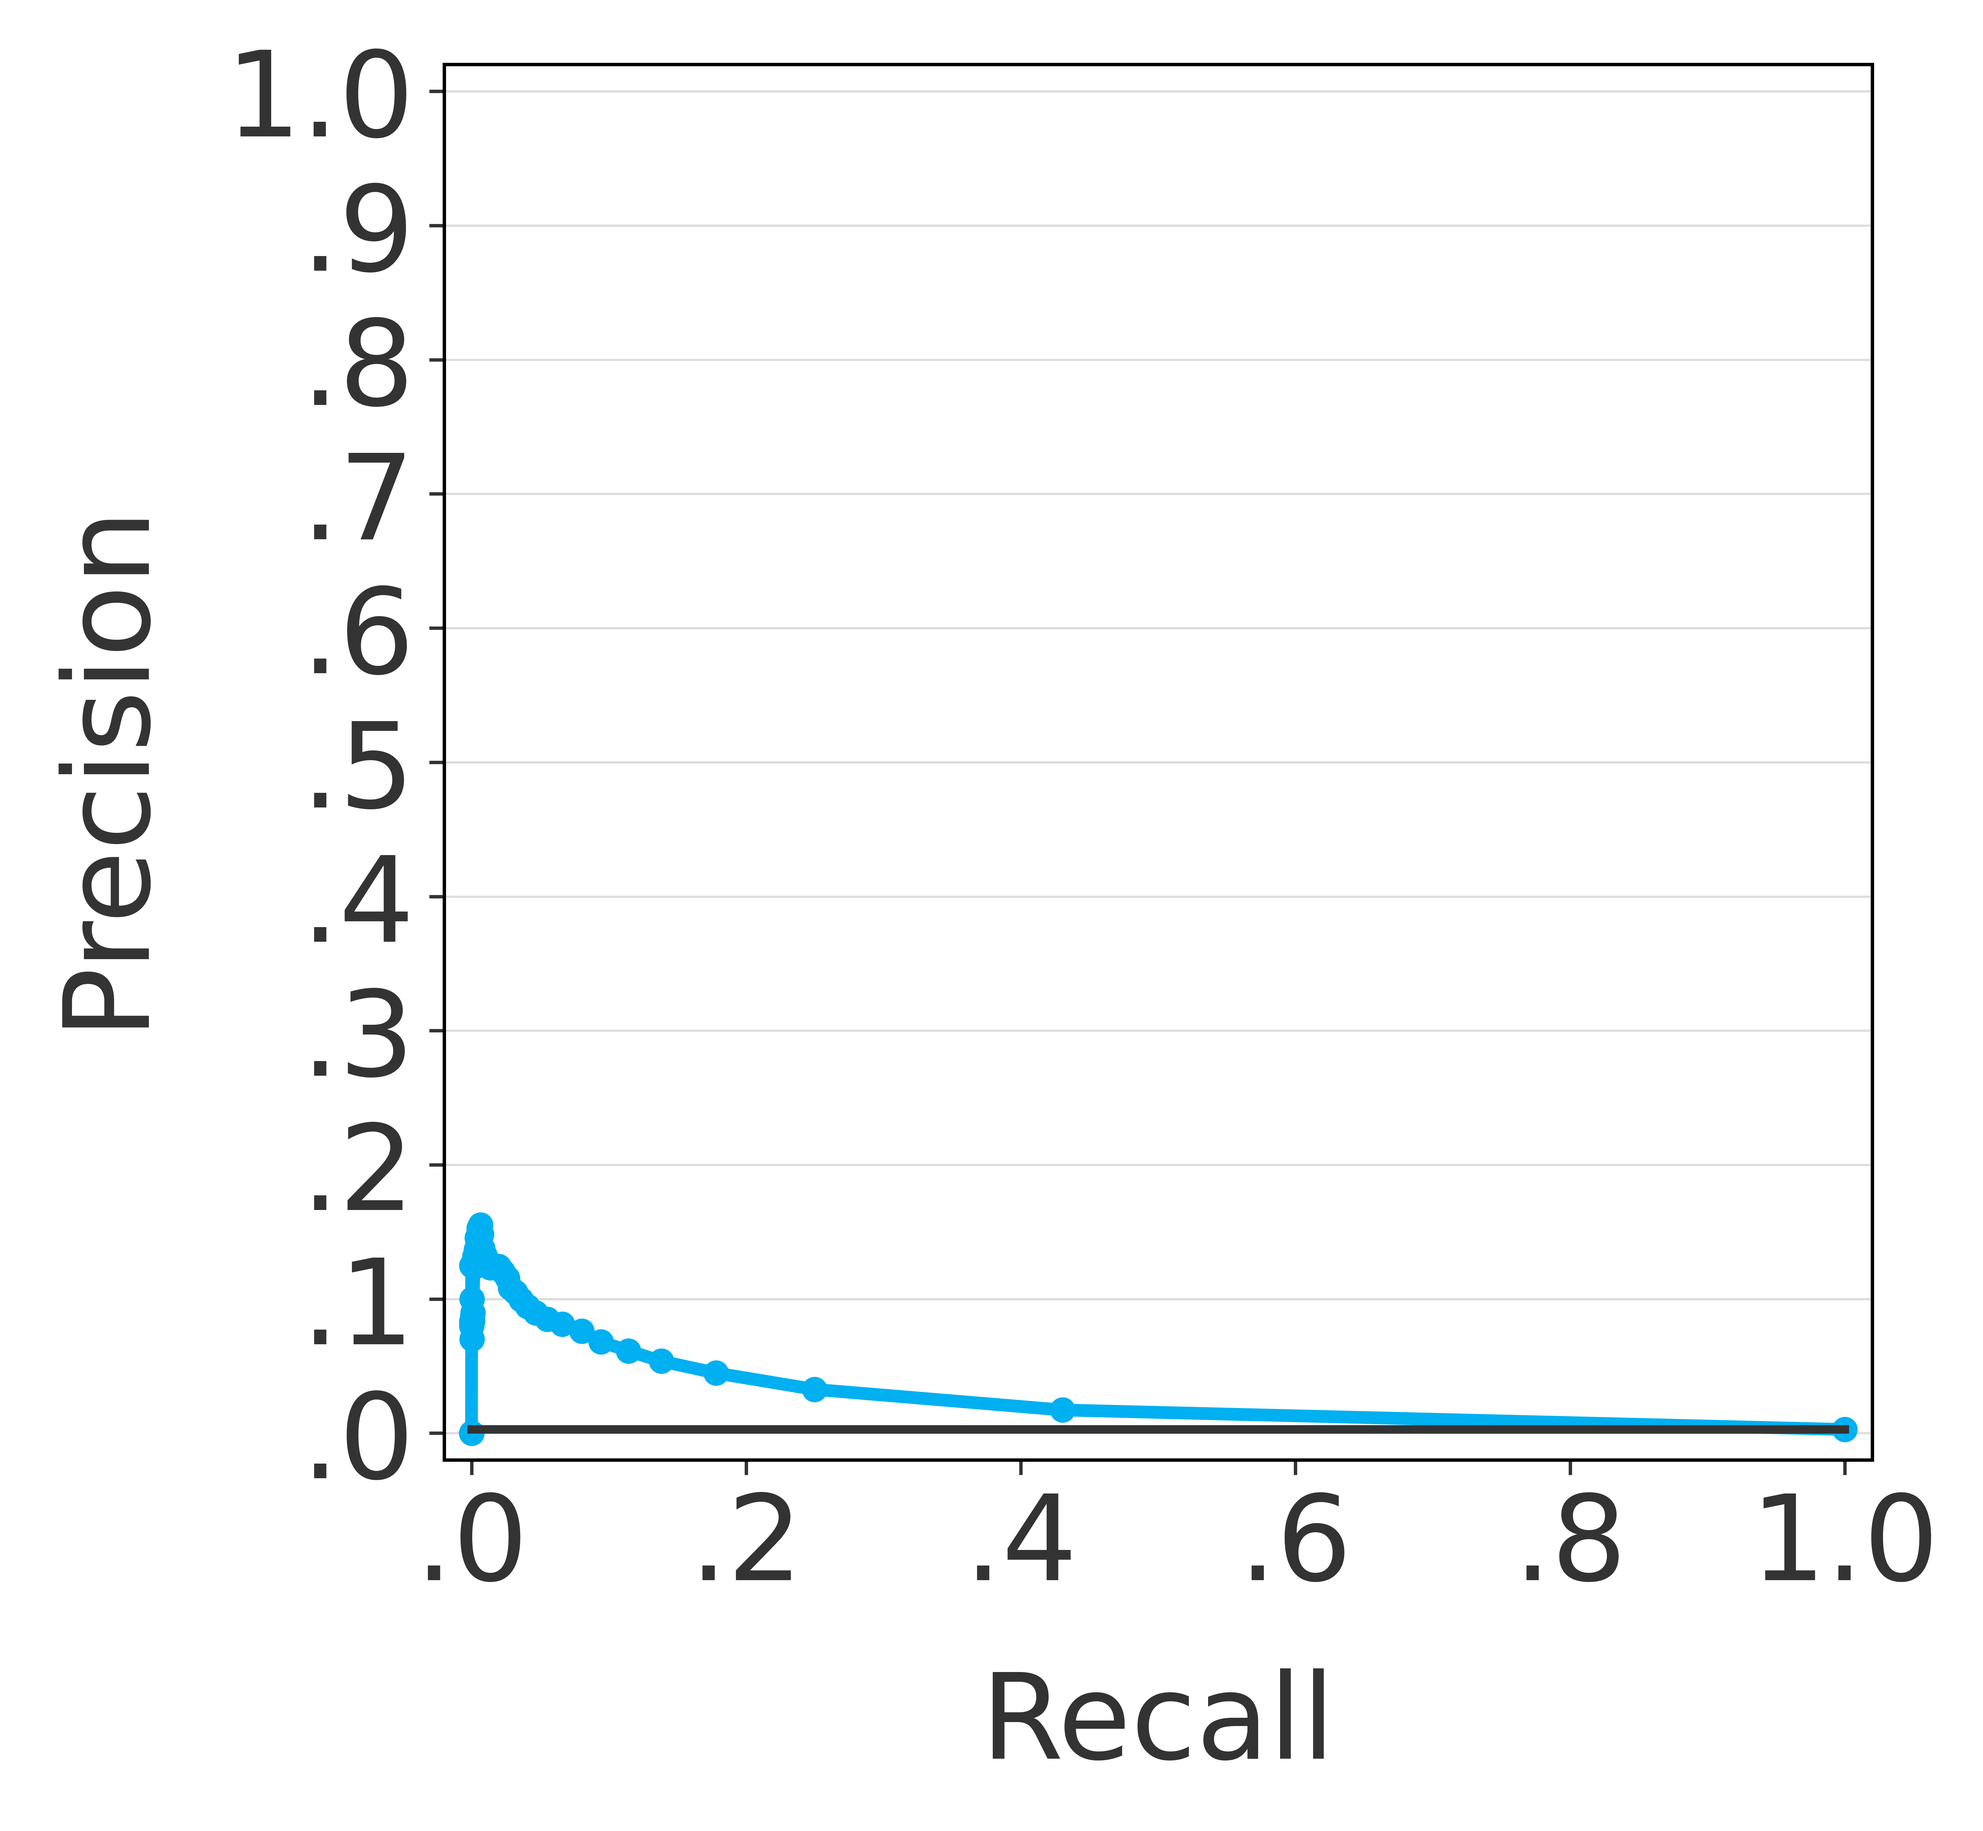
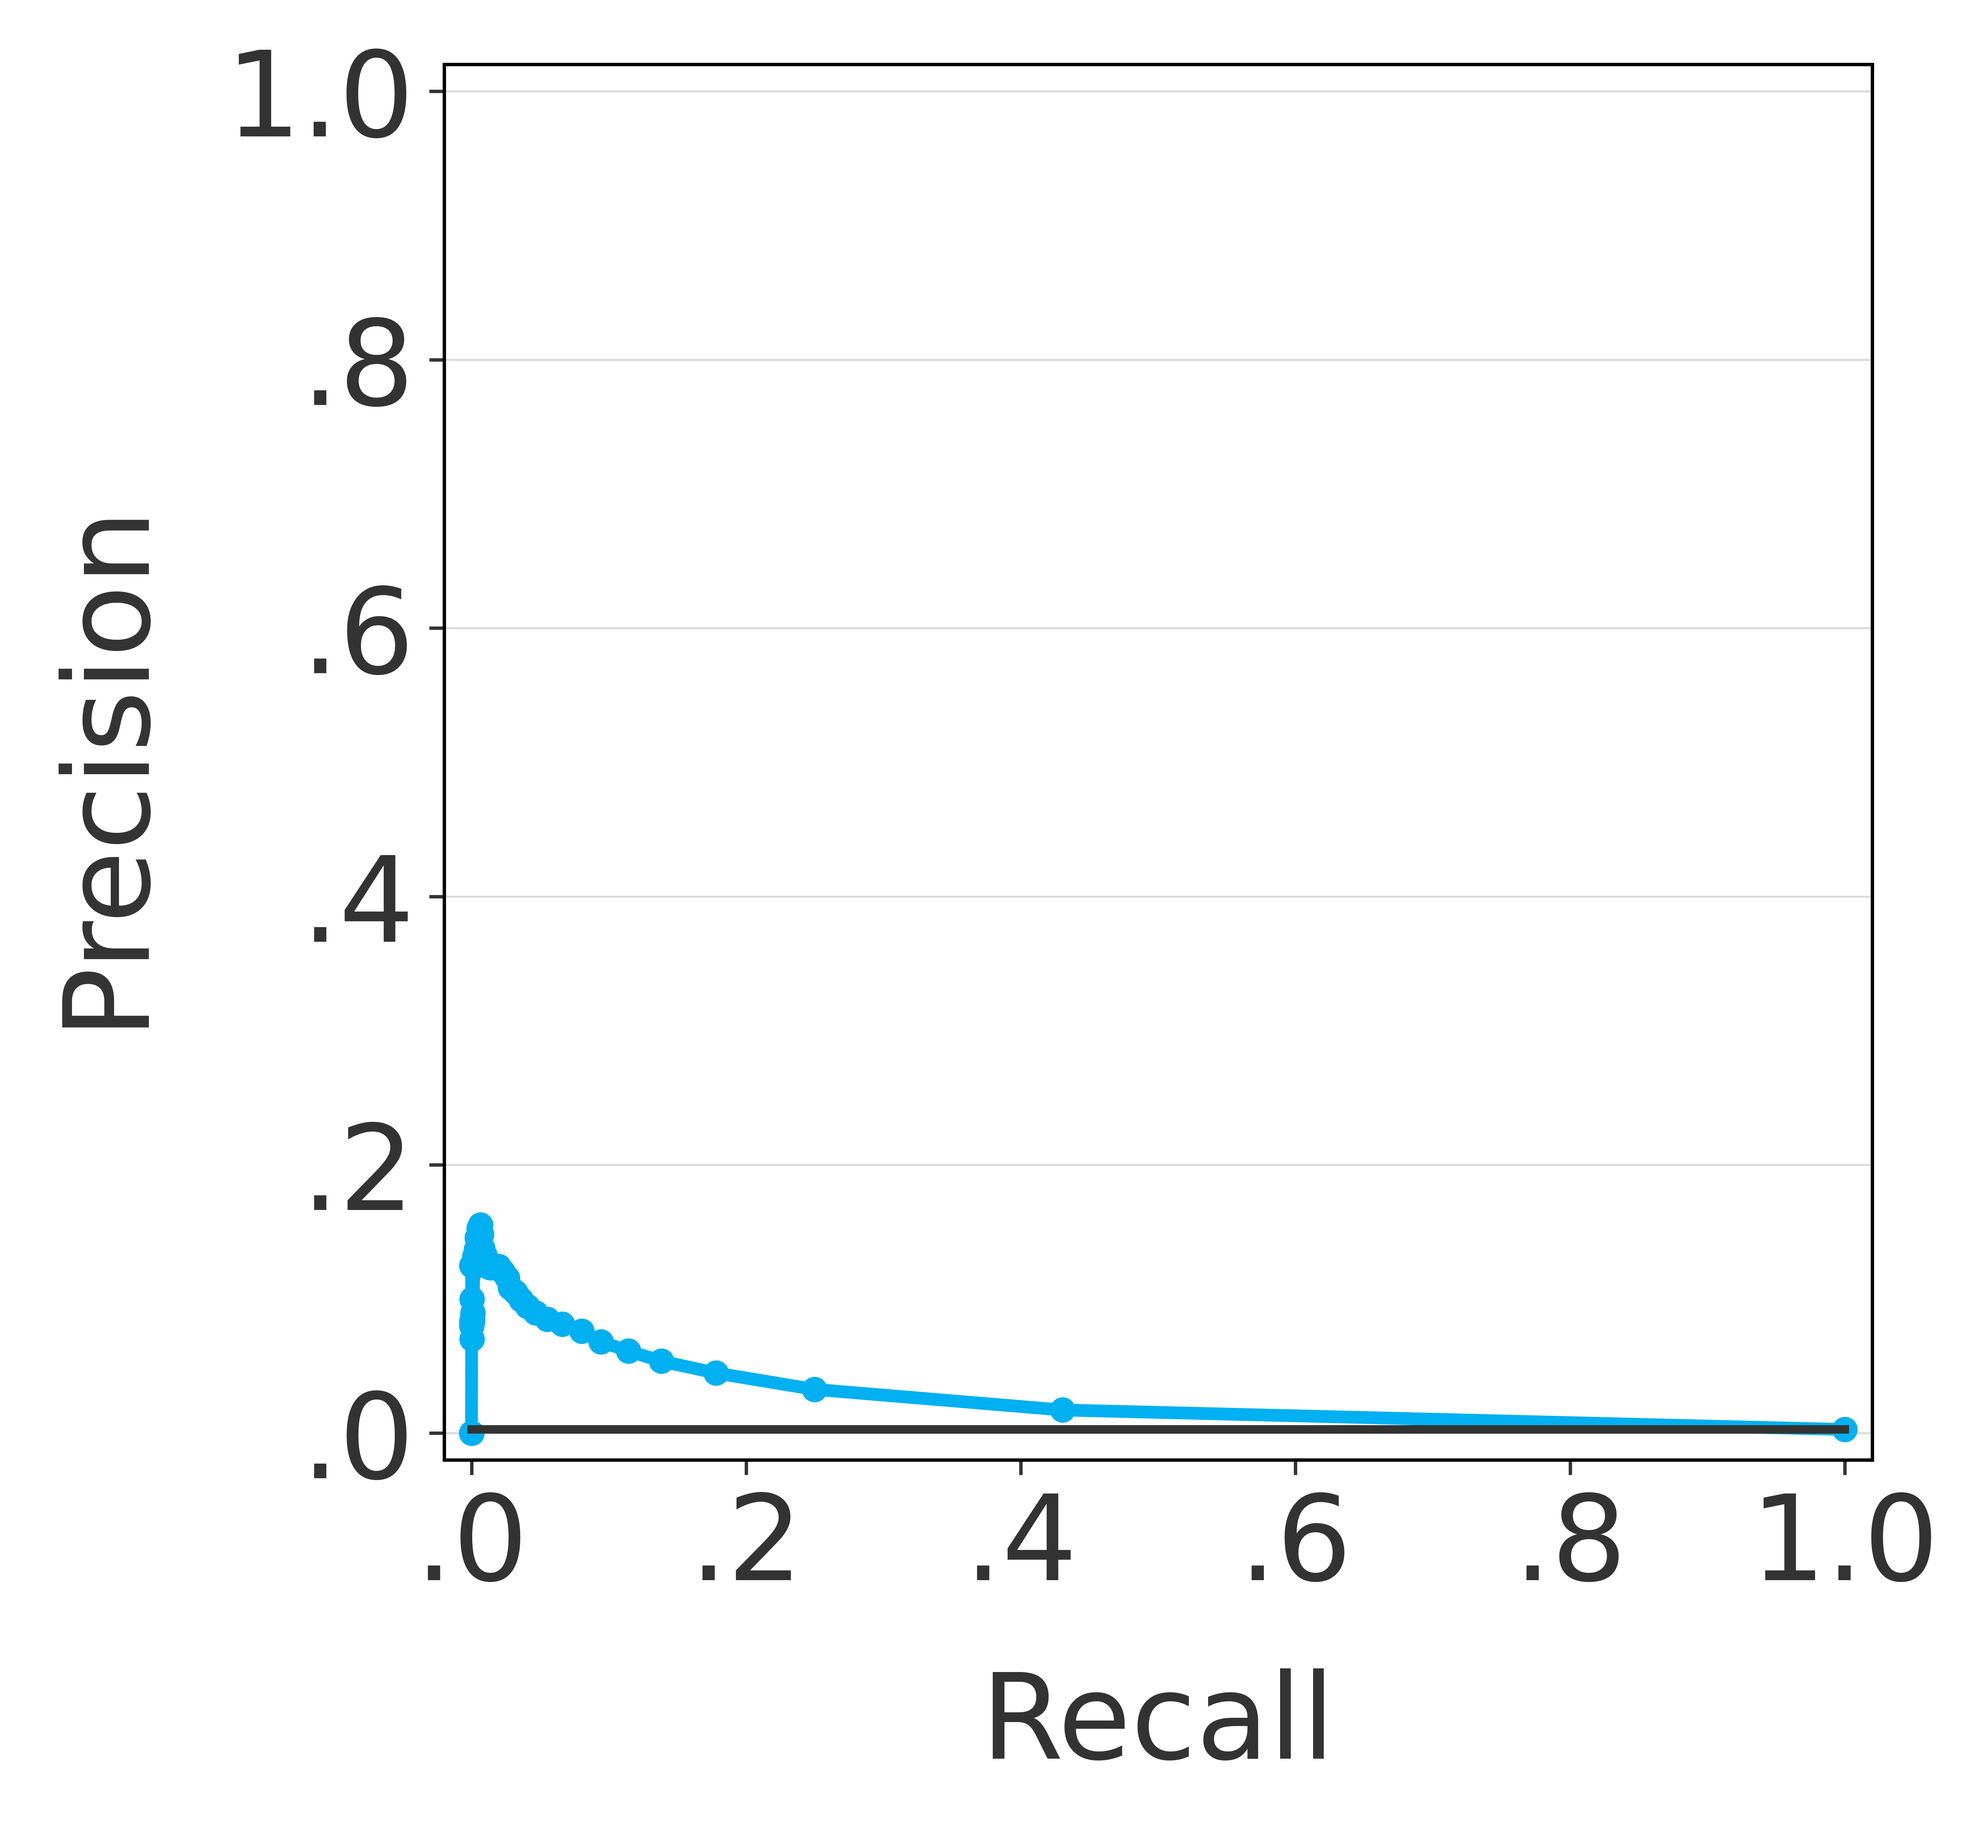
Added the plots for the training data.

diff --git a/code/plot/30_paper_verif_plots_long_fc.py b/code/plot/30_paper_verif_plots_long_fc.py
@@ -180,7 +180,7 @@ for model_name in model_name_list:
                         ax.xaxis.set_major_formatter(fmt)
                         ax.yaxis.set_major_formatter(fmt)
                         plt.xticks(np.arange(0, 1.01, 0.2))
-                        plt.yticks(np.arange(0, 1.01, 0.1))
+                        plt.yticks(np.arange(0, 1.01, 0.2))
                         plt.grid(axis='y', linewidth=0.5, color='gainsboro')
                         plt.xlim([-0.02,1.02])
                         plt.ylim([-0.02,1.02])
@@ -275,7 +275,7 @@ for model_name in model_name_list:
                   ax = plt.gca()
                   ax.yaxis.set_major_formatter(fmt)
                   plt.grid(axis='y', linewidth=0.5, color='gainsboro')
-                  plt.ylim([-0.01,0.07])
+                  plt.ylim([-0.01,0.06])
                   plt.tight_layout()
                   plt.savefig(f'{dir_out_temp}/auprc.png', dpi=1000)
                   plt.close()
